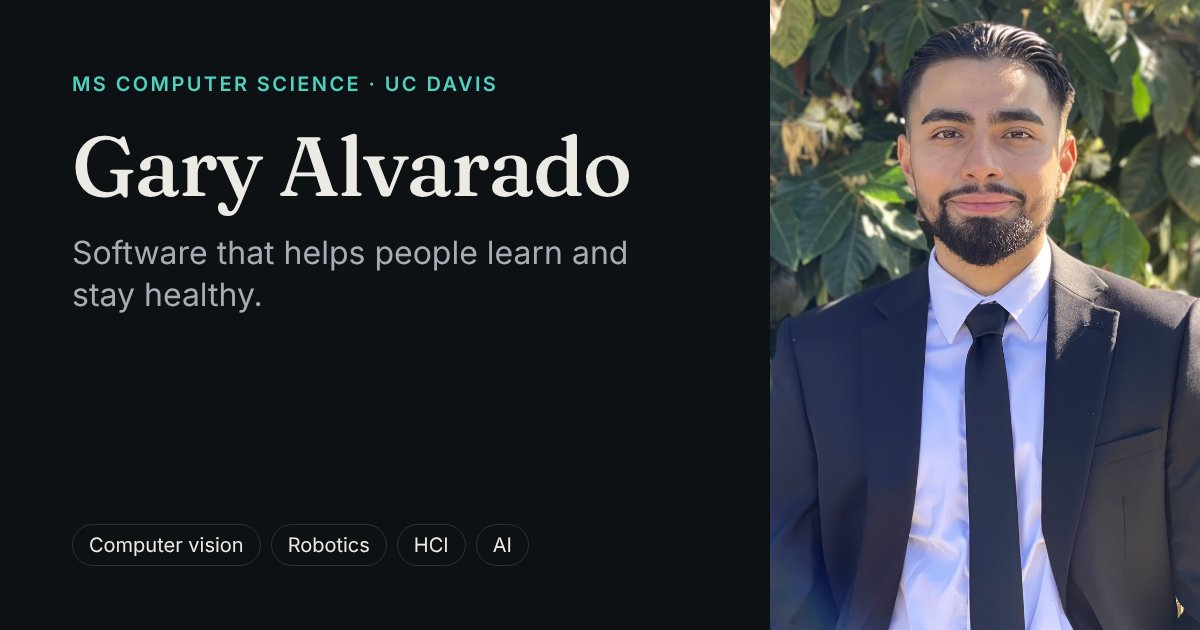
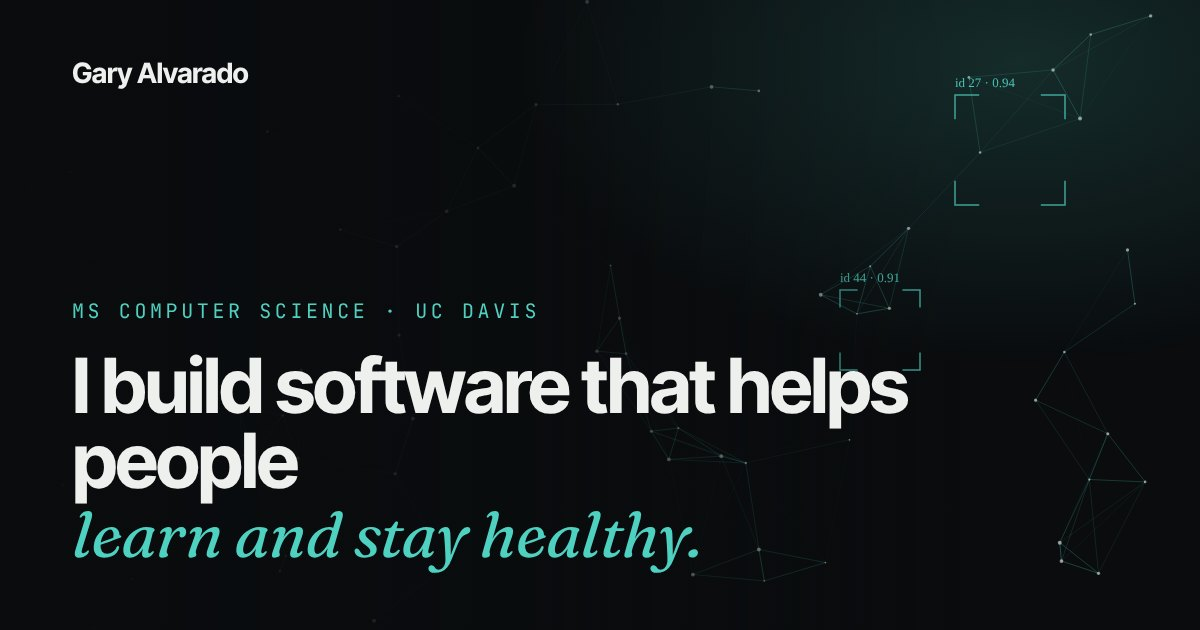
New social preview images without portrait; README design notes
Claude-Session: https://claude.ai/code/session_017tmaaE3H11kHqW7oGnFMhu

diff --git a/README.md b/README.md
@@ -24,7 +24,7 @@ npm run format       # format everything with Prettier (4-space indentation)
 ```text
 public/                     Static files: favicon, social preview images (og-en.jpg, og-es.jpg), resume.pdf
 src/
-    assets/                 Images optimized at build time (portrait, project screenshots)
+    assets/                 Images optimized at build time (project screenshots)
     components/             Small reusable pieces: Header, ProjectCard, FormField, …
     content/projects/       One JSON file per project
     content.config.ts       Schema for project files
@@ -67,19 +67,22 @@ src/
     ```
 
 2. Save it. The Projects page picks it up automatically, with no layout code to touch.
+   `live` and `client` projects appear as large case-study rows; `code` and `in-progress` projects
+   appear in the numbered "More work" index.
 
 Field notes:
 
-| Field                            | Notes                                                                                         |
-| -------------------------------- | --------------------------------------------------------------------------------------------- |
-| `summary`, `problem`, `solution` | `en` is required. If `es` is missing, the Spanish site shows the English text.                |
-| `category`                       | `live`, `client`, `code`, or `in-progress`. Each one is its own section on the Projects page. |
-| `image`                          | Optional screenshot in `src/assets/projects/`. Without one, a colored preview card is shown.  |
-| `hue`                            | Color (0 to 360) of that preview card.                                                        |
-| `team`                           | `true` adds a "Team project" badge.                                                           |
-| `featured`                       | `true` shows it under "Selected work" on the home page (the first 3 are used).                |
-| `order`                          | Sort order inside its category. Lower numbers come first.                                     |
-| `visible`                        | `false` hides it without deleting the file.                                                   |
+| Field                            | Notes                                                                                               |
+| -------------------------------- | --------------------------------------------------------------------------------------------------- |
+| `summary`, `problem`, `solution` | `en` is required. If `es` is missing, the Spanish site shows the English text.                      |
+| `category`                       | `live`, `client`, `code`, or `in-progress`. Each one is its own section on the Projects page.       |
+| `image`                          | Optional screenshot in `src/assets/projects/`. Without one, a dark preview with the title is shown. |
+| `hue`                            | Glow color (0 to 360) of that preview.                                                              |
+| `year`                           | Shown in the "More work" index, e.g. `2026`.                                                        |
+| `team`                           | `true` adds a "Team project" badge.                                                                 |
+| `featured`                       | `true` shows it under "Selected work" on the home page (the first 3 are used).                      |
+| `order`                          | Sort order inside its category. Lower numbers come first.                                           |
+| `visible`                        | `false` hides it without deleting the file.                                                         |
 
 **Screenshots:** take them at 1440 × 900 (16:10 works best), save them as PNG or JPG in
 `src/assets/projects/`, and add the `image` field. Astro resizes and converts them to WebP when it builds.
@@ -112,8 +115,20 @@ you through the contact and quote forms, which Netlify forwards to your inbox. R
 `public/resume.pdf` is the public copy of your resume. Its phone number is removed and its location reads "San Francisco
 Bay Area". When you update your resume, export a new PDF without the phone number and replace this file.
 
-The portrait is `src/assets/gary-alvarado.jpg`. To replace it, swap the file and keep the same name. A 4:5 crop
-works best. The social preview images (`public/og-en.jpg`, `public/og-es.jpg`) are 1200 × 630.
+The social preview images (`public/og-en.jpg`, `public/og-es.jpg`) are 1200 × 630 and match the hero design.
+
+## Design
+
+- **Dark by default.** The theme toggle offers a light mode and remembers the choice. Hero bands at the top of
+  every page stay dark in both themes (`.surface-dark` in `src/styles/global.css`).
+- **Hero backdrop:** `src/components/CvBackdrop.astro` draws drifting keypoints and tracking boxes on a canvas,
+  a nod to computer vision. It starts once the page is idle, pauses off-screen, and draws a single still frame
+  for visitors who prefer reduced motion. Tune `density` in `HeroSection.astro`.
+- **Type:** Inter Tight for headlines, a Fraunces italic accent line, Inter for body text, and JetBrains Mono for labels.
+- **Projects:** `CaseStudyRow.astro` (large alternating rows) and `ProjectIndex.astro` (numbered list with a
+  floating screenshot on hover for mouse users).
+- **Design skill:** `.claude/skills/ui-ux-pro-max/` is the [UI/UX Pro Max](https://github.com/nextlevelbuilder/ui-ux-pro-max-skill)
+  skill (MIT). Claude Code loads it automatically in this repo for design and accessibility guidance.
 
 ## Deploy to Netlify
 
@@ -132,10 +147,10 @@ Every push to `main` redeploys the site.
 
 - Semantic landmarks, skip link, visible focus rings, labeled controls, and keyboard-friendly menus
 - Text colors meet WCAG AA in both themes. Tokens live in `src/styles/global.css`.
-- Light and dark mode follow the system setting until the visitor picks one; the choice is remembered.
+- The site opens in dark mode; visitors can switch to light mode, and the choice is remembered.
 - Scroll and hover animations turn off when `prefers-reduced-motion` is set.
-- On the last check (local preview), Lighthouse scored 98–99 for Performance and 100 for Accessibility,
-  Best Practices, and SEO, and axe-core found no violations on any page in either theme.
+- On the last check (local preview), Lighthouse scored 97 for Performance and 100 for Accessibility,
+  Best Practices, and SEO, with no layout shift, and axe-core found no violations on any page in either theme.
 
 ## To fill in
 
